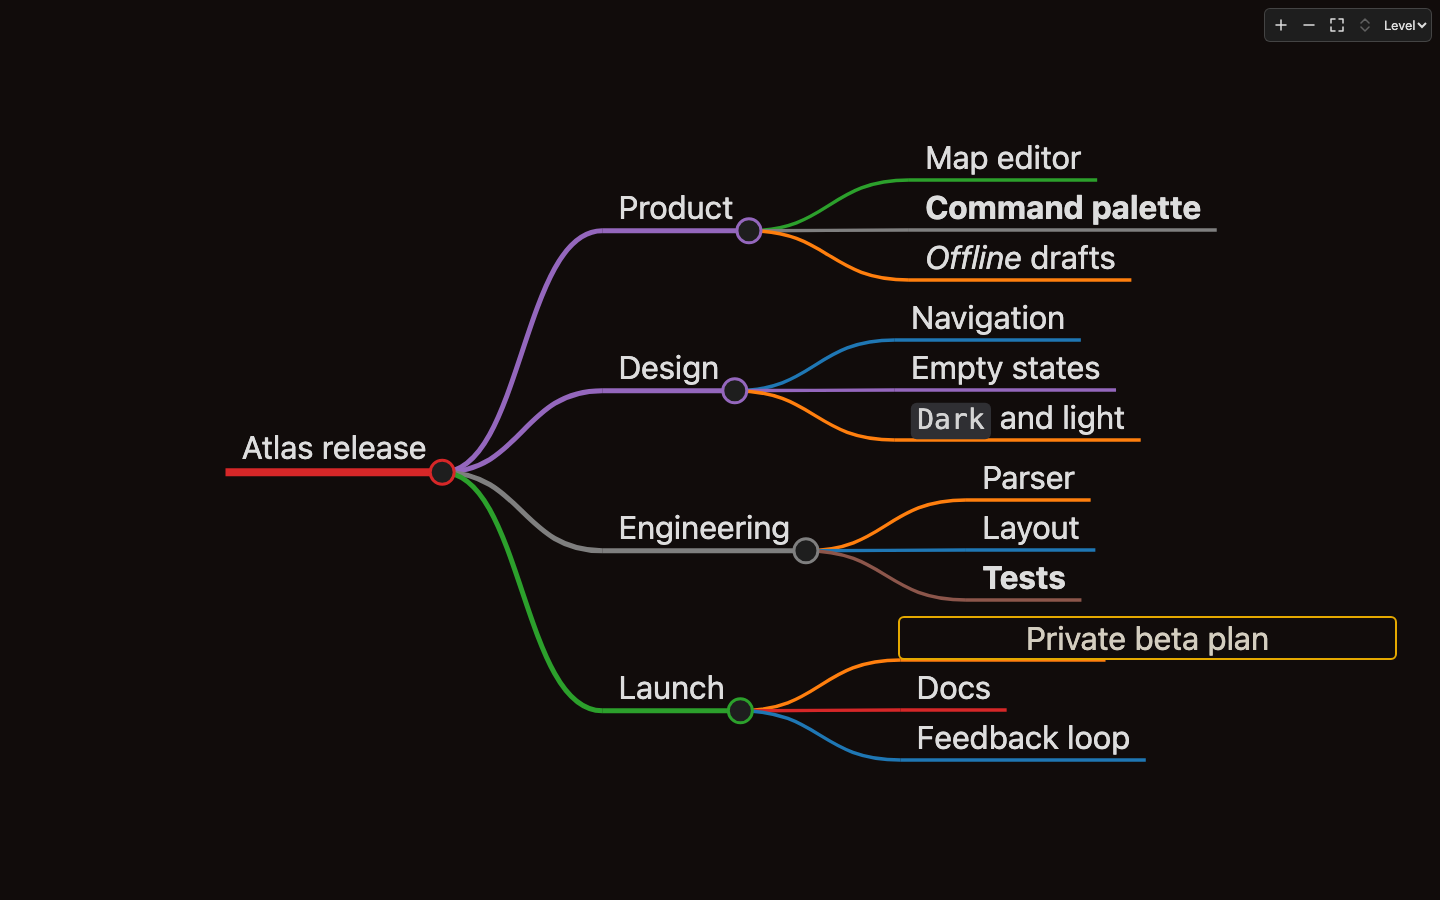
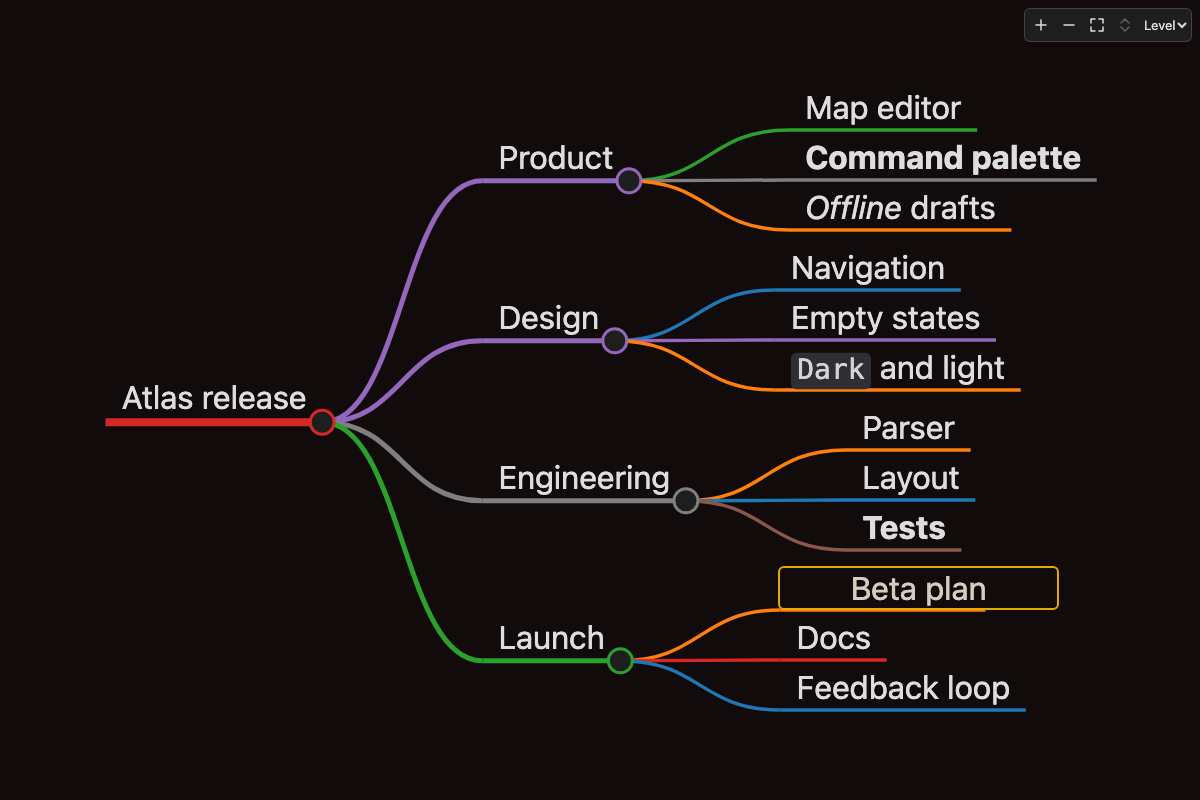
docs: tighten the README screenshots

Changed region(s): [[0.0925, 0.125, 0.9558, 0.9062], [0.8633, 0.0, 1.0, 0.0625]]

diff --git a/tests/screenshots/docs.spec.ts b/tests/screenshots/docs.spec.ts
@@ -12,7 +12,7 @@ const select = async (page: Page, label: string): Promise<void> => {
 };
 
 test('[R-02] [R-03] captures the README screenshots', async ({ page }) => {
-  await page.setViewportSize({ width: 1440, height: 900 });
+  await page.setViewportSize({ width: 1200, height: 800 });
 
   await page.goto('/dev/?map=showcase&theme=dark');
   await waitForMap(page);
@@ -29,6 +29,7 @@ test('[R-02] [R-03] captures the README screenshots', async ({ page }) => {
   await select(page, 'Private beta');
   await page.keyboard.press('F2');
   await expect(page.locator('textarea.mm-editor-field')).toBeVisible();
-  await page.keyboard.type(' plan');
+  await page.keyboard.press(process.platform === 'darwin' ? 'Meta+A' : 'Control+A');
+  await page.keyboard.type('Beta plan');
   await page.screenshot({ path: 'docs/images/editor-editing.png' });
 });
